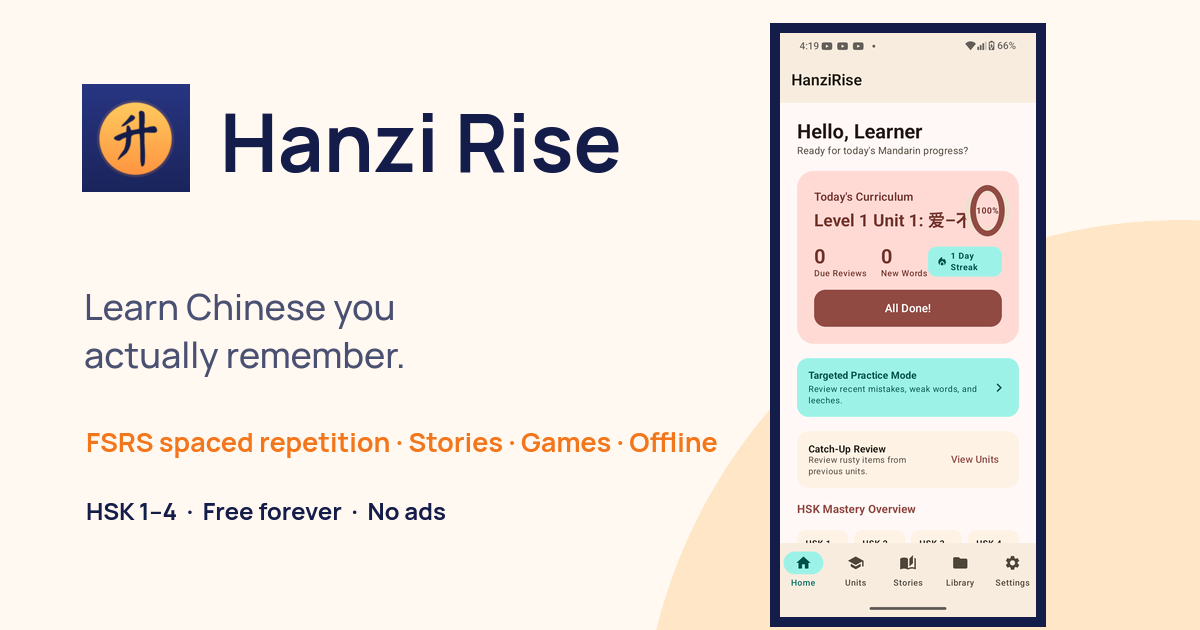
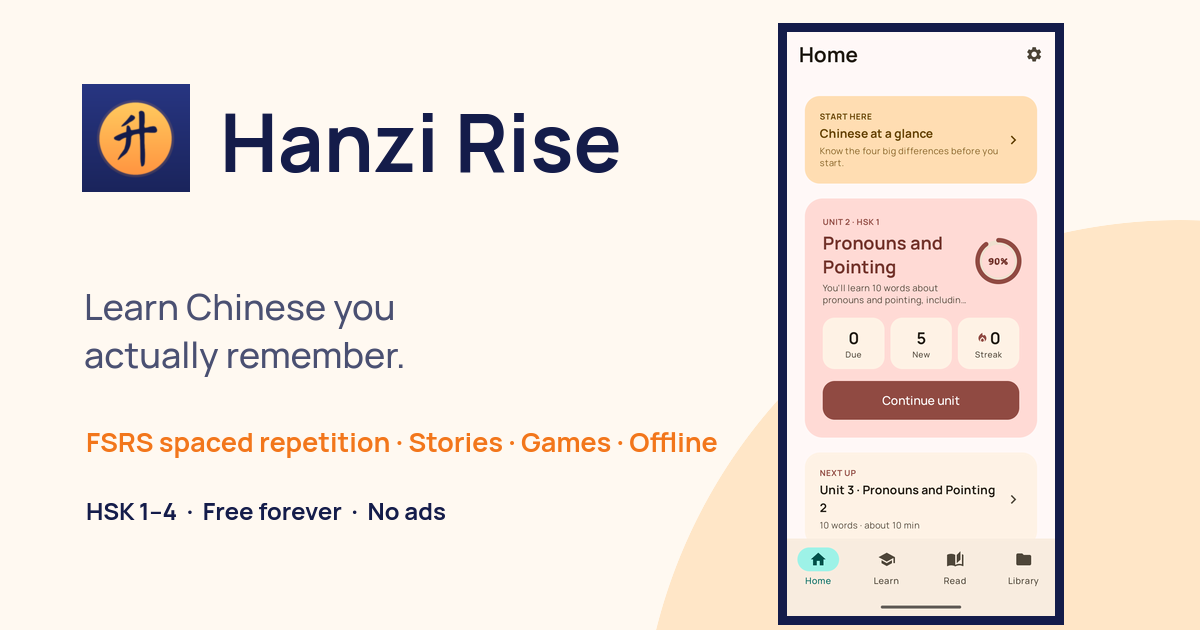
Landing: real screenshots, mobile-responsive layout, faster load
- Replace screenshots with 3 new high-quality captures (Home / Practice / Library), status bar cropped, webp ~18-35KB each
- Rework 'See it in action' gallery: larger 3-up frames, stagger, roomier spacing
- Full mobile responsiveness: fluid clamp() spacing, min()-based grids, mobile hamburger menu, no horizontal overflow (verified headless)
- Perf: preload hero image + fonts, drop backdrop blur on touch devices, lazy-load gallery, correct img dimensions (no CLS)

Changed region(s): [[0.6167, 0.0302, 0.8942, 0.9952]]

diff --git a/index.html b/index.html
@@ -27,6 +27,7 @@
 <link rel="preload" href="assets/manrope_bold.woff2" as="font" type="font/woff2" crossorigin>
 <link rel="preload" href="assets/manrope_regular.woff2" as="font" type="font/woff2" crossorigin>
 <link rel="preload" href="assets/notosc_bold.woff2" as="font" type="font/woff2" crossorigin>
+<link rel="preload" href="assets/shot-home.webp" as="image" fetchpriority="high">
 <script type="application/ld+json">{"@context":"https://schema.org","@type":"SoftwareApplication","name":"Hanzi Rise","applicationCategory":"EducationalApplication","operatingSystem":"Android, Web","offers":{"@type":"Offer","price":"0","priceCurrency":"USD"},"description":"Spaced repetition, stories at your level, grammar, games and writing practice for HSK 1–4. Free forever, works offline.","url":"https://diamondbelema.github.io/HanziRise-Landing-Page/"}</script>
 <style>
 @font-face{font-family:'Manrope';font-style:normal;font-weight:400;font-display:swap;src:url(assets/manrope_regular.woff2) format('woff2')}
@@ -55,13 +56,13 @@ body{background:var(--cream);color:var(--ink);font-family:Manrope,system-ui,-app
 a{text-decoration:none;color:inherit}
 button{font-family:inherit;cursor:pointer}
 img{display:block}
-.wrap{max-width:1120px;margin:0 auto;padding:0 24px}
+.wrap{max-width:1120px;margin:0 auto;padding:0 clamp(18px,5vw,24px)}
 .hanzi{font-family:'Noto Sans SC',sans-serif}
 
 /* ---------- NAV ---------- */
 .nav{position:sticky;top:0;z-index:50;background:rgba(255,249,241,.82);backdrop-filter:blur(14px);-webkit-backdrop-filter:blur(14px);border-bottom:1px solid transparent;transition:border-color .3s, box-shadow .3s}
 .nav.scrolled{border-color:var(--line);box-shadow:0 8px 30px -18px rgba(20,28,74,.25)}
-.nav-inner{display:flex;align-items:center;justify-content:space-between;padding:16px 24px;max-width:1120px;margin:0 auto}
+.nav-inner{display:flex;align-items:center;justify-content:space-between;gap:16px;padding:16px clamp(18px,5vw,24px);max-width:1120px;margin:0 auto}
 .brand{display:flex;align-items:center;gap:12px;font-weight:800;font-size:20px;letter-spacing:-.01em}
 .brand-mark{width:42px;height:42px;border-radius:12px;background:var(--ink);display:grid;place-items:center;color:#fff;font-family:'Noto Sans SC',sans-serif;font-weight:700;font-size:22px;overflow:hidden;box-shadow:0 6px 16px -6px rgba(20,28,74,.5);transform:rotate(-4deg);transition:transform .35s cubic-bezier(.34,1.56,.64,1)}
 .brand-mark img{width:100%;height:100%;object-fit:cover}
@@ -71,6 +72,8 @@ img{display:block}
 .nav-links a::after{content:"";position:absolute;left:0;bottom:-4px;width:0;height:2px;background:var(--accent);border-radius:2px;transition:width .25s}
 .nav-links a:hover{color:var(--ink)}
 .nav-links a:hover::after{width:100%}
+.nav-toggle{display:none;background:none;border:0;padding:10px;margin:-6px -10px -6px 0;border-radius:10px}
+.nav-toggle span{display:block;width:23px;height:2.5px;margin:5px 0;background:var(--ink);border-radius:2px;transition:transform .25s,opacity .2s}
 .btn{display:inline-flex;align-items:center;gap:10px;border:none;border-radius:14px;font-weight:700;font-size:16px;padding:15px 26px;transition:transform .2s, box-shadow .2s, background .2s}
 .btn:active{transform:scale(.97)}
 .btn-ink{background:var(--ink);color:#fff;box-shadow:0 10px 24px -10px rgba(20,28,74,.55)}
@@ -83,7 +86,7 @@ img{display:block}
 .btn-white:hover{transform:translateY(-2px)}
 
 /* ---------- HERO ---------- */
-.hero{position:relative;padding:64px 24px 0;max-width:1120px;margin:0 auto;display:grid;grid-template-columns:repeat(auto-fit,minmax(320px,1fr));gap:40px;align-items:center}
+.hero{position:relative;padding:clamp(36px,6vw,64px) clamp(18px,5vw,24px) 0;max-width:1120px;margin:0 auto;display:grid;grid-template-columns:repeat(auto-fit,minmax(min(320px,100%),1fr));gap:clamp(24px,5vw,40px);align-items:center}
 .hero-copy{display:flex;flex-direction:column;gap:24px;padding-bottom:48px}
 .pill{align-self:flex-start;display:inline-flex;align-items:center;gap:8px;background:var(--peach);color:var(--ink);padding:7px 16px;border-radius:999px;font-size:14px;font-weight:700}
 .pill .dot{width:8px;height:8px;border-radius:50%;background:var(--accent);animation:pulse 2s infinite}
@@ -98,13 +101,12 @@ h1 .hl::after{content:"";position:absolute;left:-2px;right:-2px;bottom:6px;heigh
 .hero-meta svg{color:var(--accent)}
 
 /* floating hanzi deco */
-.hero-art{position:relative;height:560px;overflow:hidden;display:flex;justify-content:center;align-items:flex-end}
-.blob{position:absolute;bottom:-230px;left:50%;margin-left:-260px;width:520px;height:520px;border-radius:50%;background:radial-gradient(circle at 35% 30%, #ffb26b, var(--accent) 65%);filter:saturate(1.05)}
+.hero-art{position:relative;min-height:clamp(400px,74vw,620px);overflow:hidden;display:flex;justify-content:center;align-items:flex-end;padding-top:12px}
+.blob{position:absolute;bottom:-30%;left:50%;transform:translateX(-50%);width:min(520px,90%);aspect-ratio:1;border-radius:50%;background:radial-gradient(circle at 35% 30%, #ffb26b, var(--accent) 65%);filter:saturate(1.05)}
 .glyph{position:absolute;font-family:'Noto Sans SC',sans-serif;font-weight:700;color:var(--ink);opacity:.09;user-select:none;animation:float 9s ease-in-out infinite}
 @keyframes float{0%,100%{transform:translateY(0) rotate(-4deg)}50%{transform:translateY(-22px) rotate(5deg)}}
-.phone{position:relative;width:280px;height:500px;background:var(--ink);border-radius:42px;padding:9px;box-shadow:var(--shadow-lg);animation:float 7s ease-in-out infinite}
-.phone::after{content:"";position:absolute;top:9px;left:50%;transform:translateX(-50%);width:92px;height:20px;background:var(--ink);border-radius:0 0 14px 14px;z-index:2}
-.phone img{width:100%;height:100%;object-fit:cover;object-position:top center;border-radius:34px;display:block;background:#fff}
+.phone{position:relative;z-index:1;width:clamp(210px,52vw,268px);aspect-ratio:720/1568;background:var(--ink);border-radius:clamp(30px,7vw,42px);padding:clamp(6px,1.6vw,9px);box-shadow:var(--shadow-lg);animation:float 7s ease-in-out infinite}
+.phone img{width:100%;height:100%;object-fit:cover;object-position:top center;border-radius:inherit;display:block;background:#fff}
 
 /* ---------- MARQUEE ---------- */
 .marquee{background:var(--ink);color:#fff;overflow:hidden;padding:14px 0;border-top:1px solid rgba(255,255,255,.06)}
@@ -115,19 +117,19 @@ h1 .hl::after{content:"";position:absolute;left:-2px;right:-2px;bottom:6px;heigh
 
 /* ---------- STATS ---------- */
 .stats{background:var(--ink);color:#fff;padding:56px 24px 64px}
-.stats-grid{max-width:1120px;margin:0 auto;display:grid;grid-template-columns:repeat(auto-fit,minmax(200px,1fr));gap:32px;text-align:center}
+.stats-grid{max-width:1120px;margin:0 auto;display:grid;grid-template-columns:repeat(auto-fit,minmax(min(160px,100%),1fr));gap:clamp(20px,5vw,32px);text-align:center}
 .stat-num{font-size:clamp(40px,5vw,54px);font-weight:800;color:var(--accent);letter-spacing:-.02em}
 .stat-label{font-size:16px;color:rgba(255,255,255,.75);margin-top:4px;font-weight:600}
 
 /* ---------- SECTIONS ---------- */
-.section{padding:88px 24px 24px;max-width:1120px;margin:0 auto}
+.section{padding:clamp(56px,9vw,88px) clamp(18px,5vw,24px) 24px;max-width:1120px;margin:0 auto}
 .eyebrow{display:inline-flex;align-items:center;gap:8px;font-size:13px;font-weight:800;letter-spacing:.14em;text-transform:uppercase;color:var(--accent-deep);margin-bottom:14px}
 .eyebrow::before{content:"";width:26px;height:3px;border-radius:2px;background:var(--accent)}
 h2{margin:0 0 12px;font-size:clamp(30px,4vw,42px);font-weight:800;letter-spacing:-.01em}
 .section-sub{margin:0 0 40px;font-size:18px;color:var(--muted);max-width:600px;line-height:1.55}
 
 /* feature cards */
-.feat-grid{display:grid;grid-template-columns:repeat(auto-fill,minmax(250px,1fr));gap:20px}
+.feat-grid{display:grid;grid-template-columns:repeat(auto-fill,minmax(min(240px,100%),1fr));gap:clamp(16px,3vw,20px)}
 .feat{background:#fff;border:1px solid var(--line);border-radius:var(--radius);padding:26px;display:flex;flex-direction:column;gap:12px;position:relative;overflow:hidden;transition:transform .3s cubic-bezier(.2,.7,.3,1), box-shadow .3s, border-color .3s}
 .feat::before{content:"";position:absolute;inset:0;background:linear-gradient(135deg, rgba(255,148,64,.10), transparent 55%);opacity:0;transition:opacity .3s}
 .feat:hover{transform:translateY(-6px);box-shadow:var(--shadow-lg);border-color:#ffd9b3}
@@ -142,7 +144,7 @@ h2{margin:0 0 12px;font-size:clamp(30px,4vw,42px);font-weight:800;letter-spacing
 .feat .tag.new{background:var(--accent)}
 
 /* showcase rows */
-.showcase{display:grid;grid-template-columns:repeat(auto-fit,minmax(320px,1fr));gap:24px;margin-top:28px}
+.showcase{display:grid;grid-template-columns:repeat(auto-fit,minmax(min(320px,100%),1fr));gap:clamp(18px,3vw,24px);margin-top:28px}
 .show-card{border-radius:28px;padding:36px;position:relative;overflow:hidden;min-height:280px;display:flex;flex-direction:column;justify-content:flex-end;gap:10px}
 .show-card.dark{background:linear-gradient(150deg,var(--ink-soft),var(--ink));color:#fff}
 .show-card.orange{background:linear-gradient(150deg,#ffa45c,var(--accent-deep));color:#fff}
@@ -152,15 +154,24 @@ h2{margin:0 0 12px;font-size:clamp(30px,4vw,42px);font-weight:800;letter-spacing
 .show-num{position:relative;font-size:13px;font-weight:800;letter-spacing:.14em;text-transform:uppercase;opacity:.75}
 
 /* screenshots gallery */
-.shots{display:grid;grid-template-columns:repeat(auto-fit,minmax(200px,1fr));gap:32px;margin-top:12px;align-items:start}
-.shot-frame{display:flex;flex-direction:column;gap:16px;align-items:center;margin:0}
-.shot-frame img{width:100%;max-width:250px;border-radius:30px;border:7px solid var(--ink);background:var(--ink);box-shadow:var(--shadow-lg);display:block}
-.shot-frame figcaption{font-weight:800;color:var(--muted);font-size:15px}
+.shots{display:grid;grid-template-columns:repeat(3,minmax(0,1fr));gap:clamp(20px,4vw,44px);margin-top:clamp(20px,4vw,36px);align-items:start;justify-items:center}
+.shot-frame{display:flex;flex-direction:column;gap:18px;align-items:center;margin:0;width:100%}
+.shot-frame img{width:100%;max-width:270px;aspect-ratio:720/1568;object-fit:cover;border-radius:30px;border:8px solid var(--ink);background:#fff;box-shadow:var(--shadow-lg);display:block}
+.shot-frame figcaption{font-weight:800;color:var(--muted);font-size:15px;letter-spacing:.01em}
+.shot-frame:nth-child(1){margin-top:26px}
+.shot-frame:nth-child(3){margin-top:26px}
+@media(max-width:900px){
+  .shots{grid-template-columns:repeat(2,minmax(0,1fr))}
+  .shot-frame:nth-child(1),.shot-frame:nth-child(3){margin-top:0}
+}
+@media(max-width:560px){
+  .shots{grid-template-columns:1fr;gap:44px;max-width:340px;margin-left:auto;margin-right:auto}
+}
 
 /* ---------- TESTER FORM ---------- */
 .tester{background:var(--ink);margin-top:96px;position:relative;overflow:hidden}
 .tester::before{content:"测";position:absolute;font-family:'Noto Sans SC',sans-serif;font-weight:700;font-size:420px;color:rgba(255,255,255,.03);top:-90px;right:-60px;user-select:none;line-height:1}
-.tester-inner{max-width:1120px;margin:0 auto;padding:88px 24px;display:grid;grid-template-columns:repeat(auto-fit,minmax(320px,1fr));gap:56px;align-items:center}
+.tester-inner{max-width:1120px;margin:0 auto;padding:clamp(56px,9vw,88px) clamp(18px,5vw,24px);display:grid;grid-template-columns:repeat(auto-fit,minmax(min(320px,100%),1fr));gap:clamp(32px,6vw,56px);align-items:center}
 .tester-copy{color:#fff;display:flex;flex-direction:column;gap:18px}
 .tester-copy .eyebrow{color:var(--accent)}
 .tester-copy .eyebrow::before{background:var(--accent)}
@@ -169,7 +180,7 @@ h2{margin:0 0 12px;font-size:clamp(30px,4vw,42px);font-weight:800;letter-spacing
 .perks{list-style:none;display:flex;flex-direction:column;gap:12px;margin-top:6px}
 .perks li{display:flex;gap:12px;align-items:flex-start;color:rgba(255,255,255,.88);font-size:15px;font-weight:600}
 .perks svg{flex:none;margin-top:2px;color:var(--accent)}
-.form-card{background:#fff;border-radius:28px;padding:36px;box-shadow:0 40px 90px -30px rgba(0,0,0,.55)}
+.form-card{background:#fff;border-radius:28px;padding:clamp(22px,5vw,36px);box-shadow:0 40px 90px -30px rgba(0,0,0,.55)}
 .form-card h3{font-size:22px;font-weight:800;margin-bottom:6px}
 .form-card .form-sub{font-size:14px;color:var(--muted);margin-bottom:24px}
 .field{margin-bottom:18px}
@@ -187,7 +198,7 @@ h2{margin:0 0 12px;font-size:clamp(30px,4vw,42px);font-weight:800;letter-spacing
 
 /* ---------- FINAL CTA ---------- */
 .cta{background:linear-gradient(135deg,#ffa45c,var(--accent-deep));margin-top:0}
-.cta-inner{max-width:1120px;margin:0 auto;padding:80px 24px;text-align:center;display:flex;flex-direction:column;align-items:center;gap:18px;color:#fff}
+.cta-inner{max-width:1120px;margin:0 auto;padding:clamp(56px,9vw,80px) clamp(18px,5vw,24px);text-align:center;display:flex;flex-direction:column;align-items:center;gap:18px;color:#fff}
 .cta-inner h2{color:#fff}
 .cta-inner p{font-size:18px;opacity:.95}
 .cta-row{display:flex;gap:12px;flex-wrap:wrap;justify-content:center;margin-top:8px}
@@ -202,14 +213,40 @@ h2{margin:0 0 12px;font-size:clamp(30px,4vw,42px);font-weight:800;letter-spacing
 .reveal.in{opacity:1;transform:none}
 @media (prefers-reduced-motion:reduce){*{animation:none!important;transition:none!important}.reveal{opacity:1;transform:none}}
 
+/* nav perf on touch devices: skip the backdrop blur (expensive to composite) */
+@media(max-width:900px){
+  .nav{backdrop-filter:none;-webkit-backdrop-filter:none;background:rgba(255,249,241,.95)}
+}
 @media(max-width:760px){
-  .nav-links a:not(.btn){display:none}
-  .hero{padding-top:40px}
-  .hero-art{height:480px}
-  .phone{height:440px;width:260px}
-  .section{padding-top:64px}
-  .tester-inner{padding:64px 24px;gap:36px}
-  .show-card{padding:28px}
+  .nav-toggle{display:block}
+  .nav-links{position:absolute;top:100%;left:0;right:0;flex-direction:column;align-items:stretch;gap:0;padding:6px clamp(18px,5vw,24px) 20px;background:var(--cream);border-bottom:1px solid var(--line);box-shadow:0 20px 30px -20px rgba(20,28,74,.3);display:none}
+  .nav-links.open{display:flex}
+  .nav-links a:not(.btn){display:block;padding:13px 2px;border-bottom:1px solid var(--line)}
+  .nav-links a:not(.btn)::after{display:none}
+  .nav-links .btn{margin-top:14px;justify-content:center}
+  .nav-toggle[aria-expanded="true"] span:nth-child(1){transform:translateY(7.5px) rotate(45deg)}
+  .nav-toggle[aria-expanded="true"] span:nth-child(2){opacity:0}
+  .nav-toggle[aria-expanded="true"] span:nth-child(3){transform:translateY(-7.5px) rotate(-45deg)}
+  .hero{padding-top:clamp(28px,6vw,40px)}
+  .hero-copy{padding-bottom:8px}
+  .hero-sub{font-size:18px}
+  .hero-cta .btn{flex:1 1 auto;justify-content:center}
+  .show-card{padding:26px}
+  .show-card h3{font-size:23px}
+  .footer{justify-content:flex-start;gap:10px}
+  .stat-num{font-size:clamp(34px,9vw,44px)}
+  h1{font-size:clamp(34px,9vw,52px)}
+  h2{font-size:clamp(26px,7vw,36px)}
+  .marquee-track{font-size:14px;gap:32px}
+  .marquee-track span{gap:32px}
+}
+@media(max-width:420px){
+  .brand{font-size:18px;gap:9px}
+  .brand-mark{width:36px;height:36px}
+  .pill{font-size:12.5px;padding:6px 12px}
+  .btn{padding:13px 20px;font-size:15px}
+  .hero-meta{gap:12px;font-size:13px}
+  .tester::before{font-size:280px}
 }
 </style>
 </head>
@@ -219,7 +256,10 @@ h2{margin:0 0 12px;font-size:clamp(30px,4vw,42px);font-weight:800;letter-spacing
 <nav class="nav" id="nav">
   <div class="nav-inner">
     <a href="#top" class="brand"><span class="brand-mark"><img src="assets/icon-192.png" alt="Hanzi Rise app icon"></span>Hanzi Rise</a>
-    <div class="nav-links">
+    <button class="nav-toggle" id="navToggle" type="button" aria-label="Toggle menu" aria-expanded="false" aria-controls="navMenu">
+      <span></span><span></span><span></span>
+    </button>
+    <div class="nav-links" id="navMenu">
       <a href="#features">Features</a>
       <a href="#roadmap">Roadmap</a>
       <a href="#test">Become a tester</a>
@@ -253,7 +293,7 @@ h2{margin:0 0 12px;font-size:clamp(30px,4vw,42px);font-weight:800;letter-spacing
     <span class="glyph" style="bottom:30%;left:8%;font-size:60px;animation-delay:3.4s">爱</span>
     <div class="blob"></div>
     <div class="phone">
-      <img src="assets/shot-home.webp" alt="Hanzi Rise home screen showing today's session, streak and new words" width="262" height="482">
+      <img src="assets/shot-home.webp" alt="Hanzi Rise home screen with today's progress and HSK mastery overview" width="720" height="1568" fetchpriority="high" decoding="async">
     </div>
   </div>
 </header>
@@ -369,16 +409,16 @@ h2{margin:0 0 12px;font-size:clamp(30px,4vw,42px);font-weight:800;letter-spacing
   </div>
   <div class="shots">
     <figure class="shot-frame reveal">
-      <img src="assets/shot-home.webp" alt="Hanzi Rise home screen with daily progress and HSK mastery overview" width="720" height="1640" loading="lazy">
-      <figcaption>Home</figcaption>
-    </figure>
-    <figure class="shot-frame reveal">
-      <img src="assets/shot-session.webp" alt="Hanzi Rise today's session with due reviews, new words and targeted practice" width="720" height="1640" loading="lazy">
+      <img src="assets/shot-home.webp" alt="Hanzi Rise home screen with today's progress and HSK mastery overview" width="720" height="1568" loading="lazy" decoding="async">
       <figcaption>Today's session</figcaption>
     </figure>
     <figure class="shot-frame reveal">
-      <img src="assets/shot-review.webp" alt="Hanzi Rise review card grading the meaning of a character" width="720" height="1640" loading="lazy">
-      <figcaption>Review</figcaption>
+      <img src="assets/shot-practice.webp" alt="Hanzi Rise practice question: pick the meaning from four choices" width="720" height="1568" loading="lazy" decoding="async">
+      <figcaption>Practice &amp; review</figcaption>
+    </figure>
+    <figure class="shot-frame reveal">
+      <img src="assets/shot-library.webp" alt="Hanzi Rise library with 1096 characters and 2000 words to browse" width="720" height="1568" loading="lazy" decoding="async">
+      <figcaption>Library</figcaption>
     </figure>
   </div>
 </div>
@@ -463,6 +503,19 @@ h2{margin:0 0 12px;font-size:clamp(30px,4vw,42px);font-weight:800;letter-spacing
 // sticky nav shadow
 const nav = document.getElementById('nav');
 addEventListener('scroll', () => nav.classList.toggle('scrolled', scrollY > 12), {passive:true});
+
+// mobile menu
+const navToggle = document.getElementById('navToggle');
+const navMenu = document.getElementById('navMenu');
+if (navToggle && navMenu) {
+  const closeMenu = () => { navMenu.classList.remove('open'); navToggle.setAttribute('aria-expanded','false'); };
+  navToggle.addEventListener('click', () => {
+    const open = navMenu.classList.toggle('open');
+    navToggle.setAttribute('aria-expanded', String(open));
+  });
+  navMenu.addEventListener('click', e => { if (e.target.tagName === 'A') closeMenu(); });
+  addEventListener('keydown', e => { if (e.key === 'Escape') closeMenu(); });
+}
 
 // scroll reveal
 const io = new IntersectionObserver(entries => {
